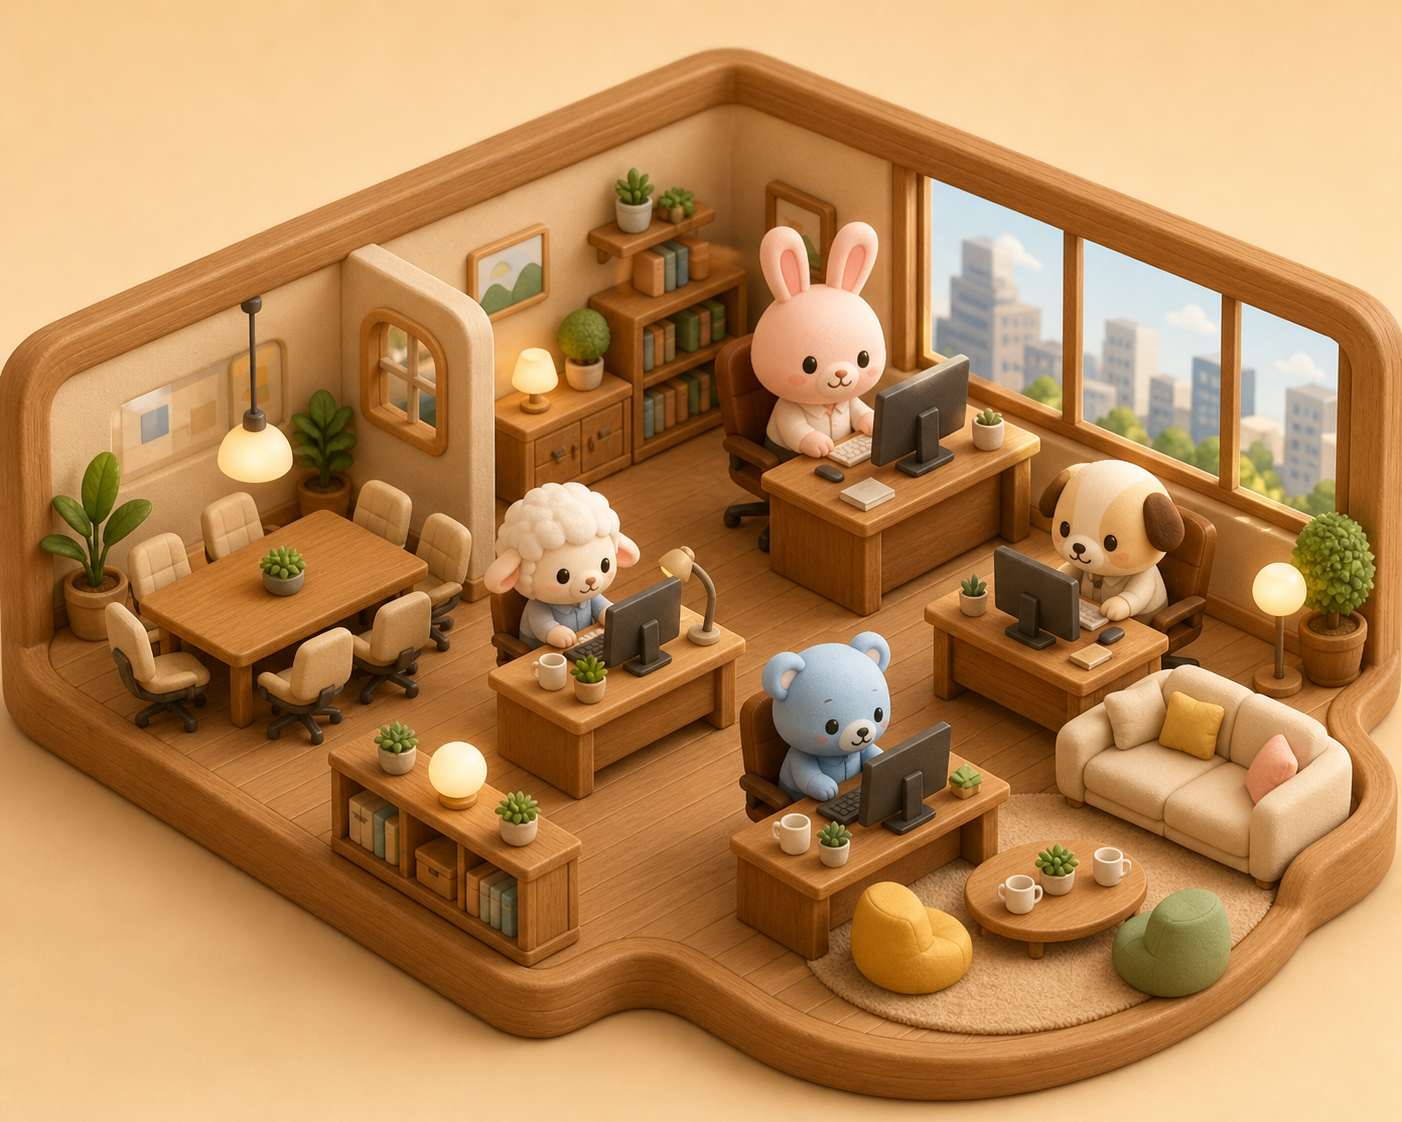
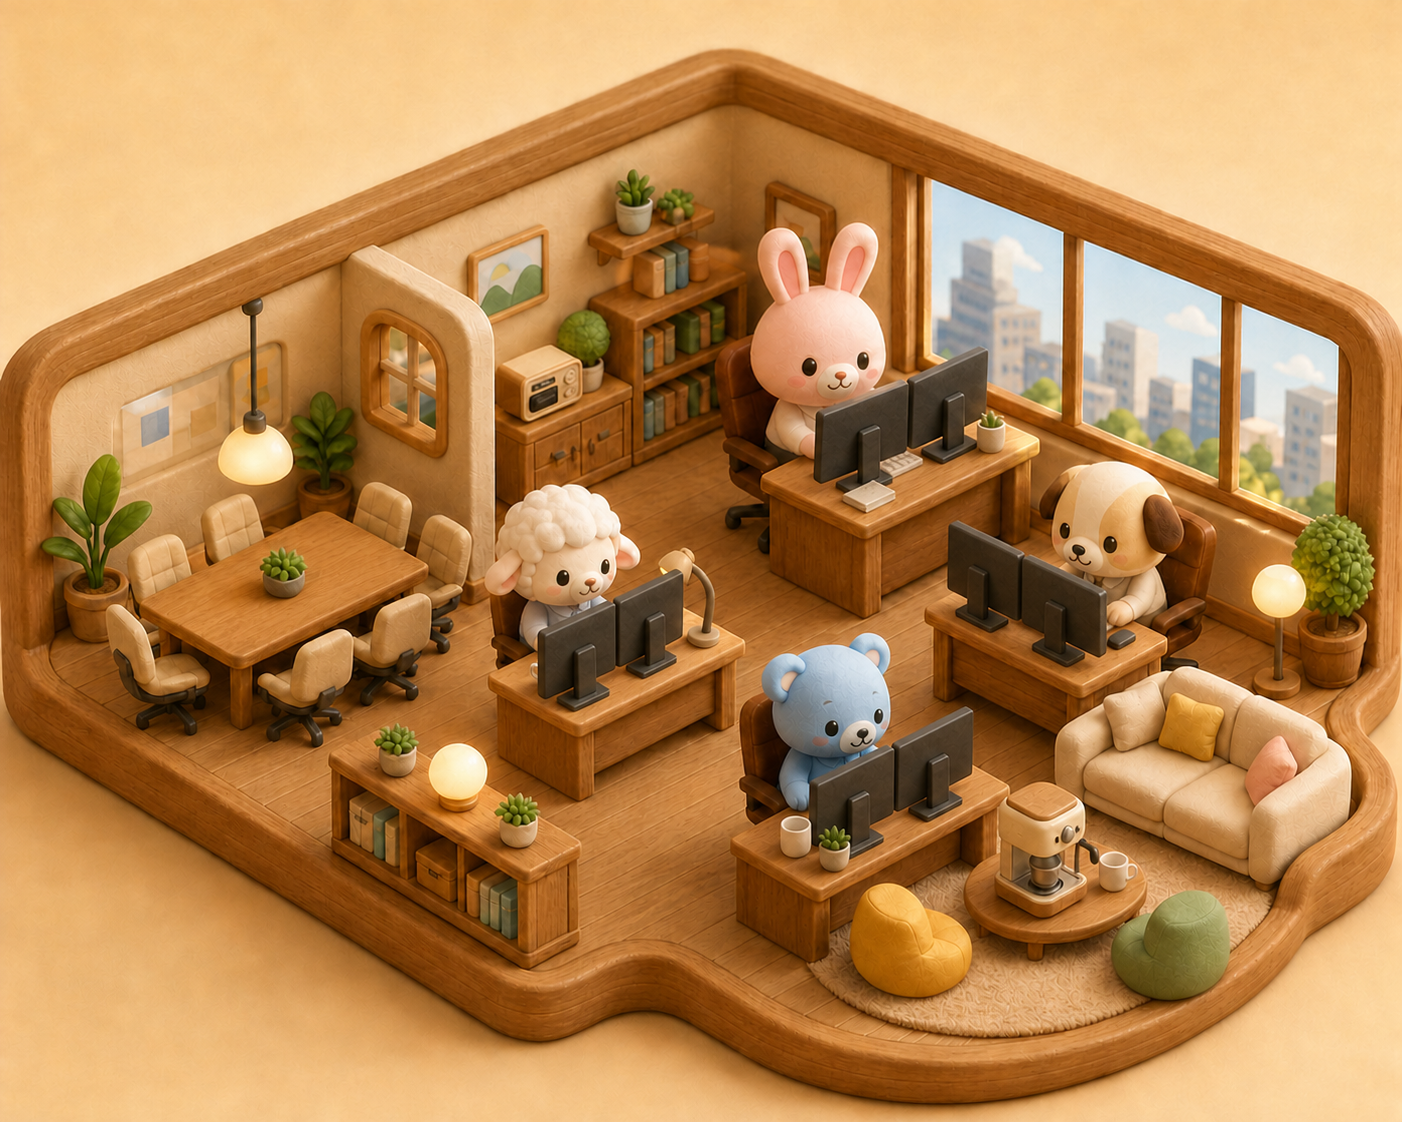
방 이름 변경(지휘실→연구소장실, 작업실→연구소) 및 오피스 맵 이미지 갱신
- ROOMS/핀/방 모달/참여 드롭다운/alt: 연구소장실·연구소
- 할 일 탭은 방 이름과 겹치지 않게 '📋 연구과제'로 변경
- DB 키(command/work)는 그대로 유지
- office-map.png: 라운지 커피 머신, 연구소장실 레트로 오디오, 모든 책상 듀얼 모니터
- app.js?v=4 캐시 갱신

diff --git a/index.html b/index.html
@@ -6,7 +6,7 @@
   <meta name="theme-color" content="#f3e7d2" />
   <meta name="description" content="Thomas 전용 연구소 — Piccolo와 동료 피클들이 방마다 일하고, 회의·작업·메모를 한곳에서 나눕니다." />
   <meta property="og:title" content="👑 Thomas 연구소" />
-  <meta property="og:description" content="Piccolo & 동료 피클 전용 — 오피스 맵, 회의실, 작업실, 메모" />
+  <meta property="og:description" content="Piccolo & 동료 피클 전용 — 오피스 맵, 회의실, 연구소, 메모" />
   <title>👑 Thomas 연구소</title>
   <link rel="apple-touch-icon" sizes="180x180" href="assets/apple-touch-icon.png" />
   <link rel="icon" type="image/png" href="assets/apple-touch-icon.png" />
@@ -32,7 +32,7 @@
     <nav class="tabs" id="tabs" role="tablist" aria-label="연구소 메뉴">
       <button class="tab active" role="tab" data-tab="map" aria-selected="true" aria-controls="panel-map">🗺 오피스 맵</button>
       <button class="tab" role="tab" data-tab="meeting" aria-selected="false" aria-controls="panel-meeting">💬 회의실</button>
-      <button class="tab" role="tab" data-tab="tasks" aria-selected="false" aria-controls="panel-tasks">📋 작업실</button>
+      <button class="tab" role="tab" data-tab="tasks" aria-selected="false" aria-controls="panel-tasks">📋 연구과제</button>
       <button class="tab" role="tab" data-tab="agents" aria-selected="false" aria-controls="panel-agents">📊 비서현황</button>
       <button class="tab" role="tab" data-tab="memo" aria-selected="false" aria-controls="panel-memo">📝 메모</button>
     </nav>
@@ -55,15 +55,15 @@
 
         <div class="card map-card">
           <div class="map" id="map">
-            <img src="assets/office-map.png" alt="Thomas 전용 클레이 오피스 디오라마 — 회의실, 지휘실, 작업실, 라운지" />
+            <img src="assets/office-map.png" alt="Thomas 전용 클레이 오피스 디오라마 — 대회의실, 연구소장실, 연구소, 라운지" />
             <button class="pin" type="button" data-room="command" style="--x:58.5%;--y:37%">
-              <span class="pin-dot"></span><span class="pin-name">🎯 지휘실</span><em class="pin-count">0</em>
+              <span class="pin-dot"></span><span class="pin-name">🎯 연구소장실</span><em class="pin-count">0</em>
             </button>
             <button class="pin" type="button" data-room="meeting" style="--x:20%;--y:53%">
               <span class="pin-dot"></span><span class="pin-name">🏛 대회의실</span><em class="pin-count">0</em>
             </button>
             <button class="pin" type="button" data-room="work" style="--x:48%;--y:62%">
-              <span class="pin-dot"></span><span class="pin-name">💻 작업실</span><em class="pin-count">0</em>
+              <span class="pin-dot"></span><span class="pin-name">💻 연구소</span><em class="pin-count">0</em>
             </button>
             <button class="pin" type="button" data-room="lounge" style="--x:79%;--y:80%">
               <span class="pin-dot"></span><span class="pin-name">☕ 라운지</span><em class="pin-count">0</em>
@@ -95,10 +95,10 @@
         <div class="list" id="meetingList"></div>
       </section>
 
-      <!-- ===== 작업실 ===== -->
+      <!-- ===== 연구과제 ===== -->
       <section class="panel" id="panel-tasks" role="tabpanel" aria-labelledby="tab-tasks" hidden>
         <div class="card hero">
-          <span class="eyebrow">📋 작업실</span>
+          <span class="eyebrow">📋 연구과제</span>
           <h2>맡은 일을 카드로 관리해요</h2>
           <p class="hero-sub">카드를 추가하고, 끝나면 체크하세요.</p>
         </div>
@@ -232,6 +232,6 @@
 
   <script src="https://cdn.jsdelivr.net/npm/@supabase/supabase-js@2" defer></script>
   <script src="config.js?v=1" defer></script>
-  <script src="app.js?v=3" defer></script>
+  <script src="app.js?v=4" defer></script>
 </body>
 </html>

diff --git a/app.js b/app.js
@@ -18,9 +18,9 @@
   const LOCAL_KEY = 'pickleOffice.local.v1';
 
   const ROOMS = {
-    command: { name: '지휘실', icon: '🎯', desc: 'Thomas의 지시와 최종 판단이 모이는 방' },
+    command: { name: '연구소장실', icon: '🎯', desc: 'Thomas의 지시와 최종 판단이 모이는 방' },
     meeting: { name: '대회의실', icon: '🏛', desc: '안건을 올리고 함께 결정하는 방' },
-    work: { name: '작업실', icon: '💻', desc: '각자 맡은 일을 처리하는 방' },
+    work: { name: '연구소', icon: '💻', desc: '각자 맡은 연구과제를 처리하는 방' },
     lounge: { name: '라운지', icon: '☕', desc: '잠깐 쉬며 근황을 나누는 방' },
   };
   const ROOM_ORDER = ['command', 'meeting', 'work', 'lounge'];
@@ -840,7 +840,7 @@ end $$;`;
         writeJSON(ME_KEY, me);
         hideAll();
         render();
-        toast(`${data.name}, 연구소에 들어왔어요. (${ROOMS[data.room].name})`);
+        toast(`${data.name}, ${ROOMS[data.room].name}에 들어왔어요.`);
       } catch (err) {
         toast(errMsg(err));
       } finally {
